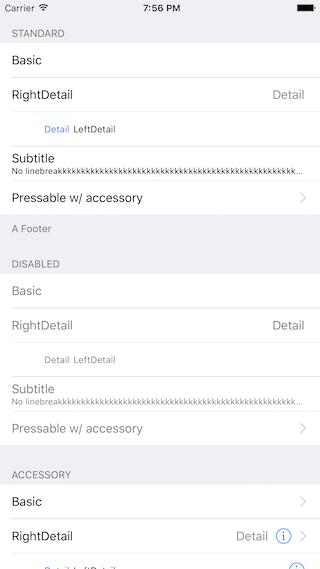
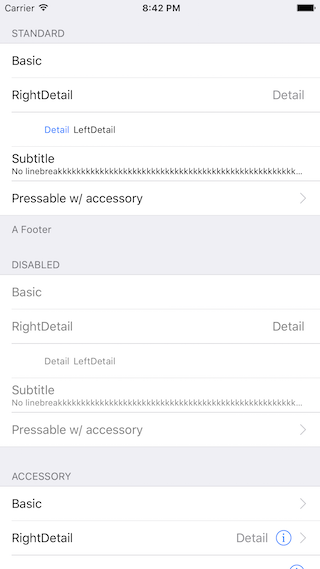
added border to section

diff --git a/components/Section.js b/components/Section.js
@@ -58,7 +58,9 @@ export default class Section extends Component {
     return(
       <View style={styleSection}>
         {renderHeader()}
+        <View style={styles.section_inner}>
           {React.Children.map(children, renderChild)}
+        </View>
         {renderFooter()}
       </View>
     )
@@ -69,6 +71,11 @@ var styles = StyleSheet.create({
   'section': {
     paddingTop: 15,
     paddingBottom: 15,
+  },
+  'section_inner': {
+    borderTopWidth: 0.5,
+    borderBottomWidth: 0.5,
+    borderColor: '#c8c7cc',
   },
   'sectionheader': {
     fontSize: 13,
